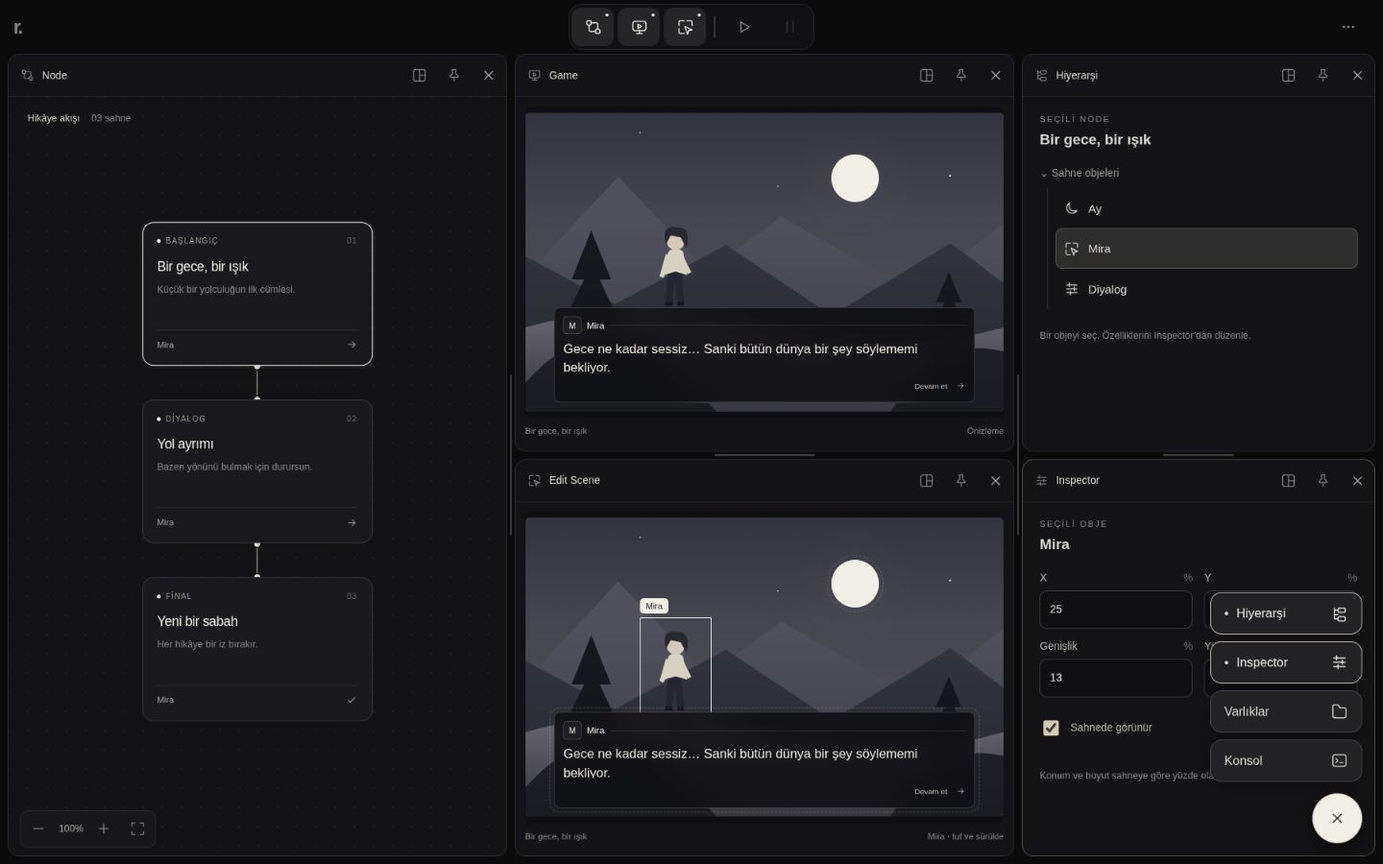
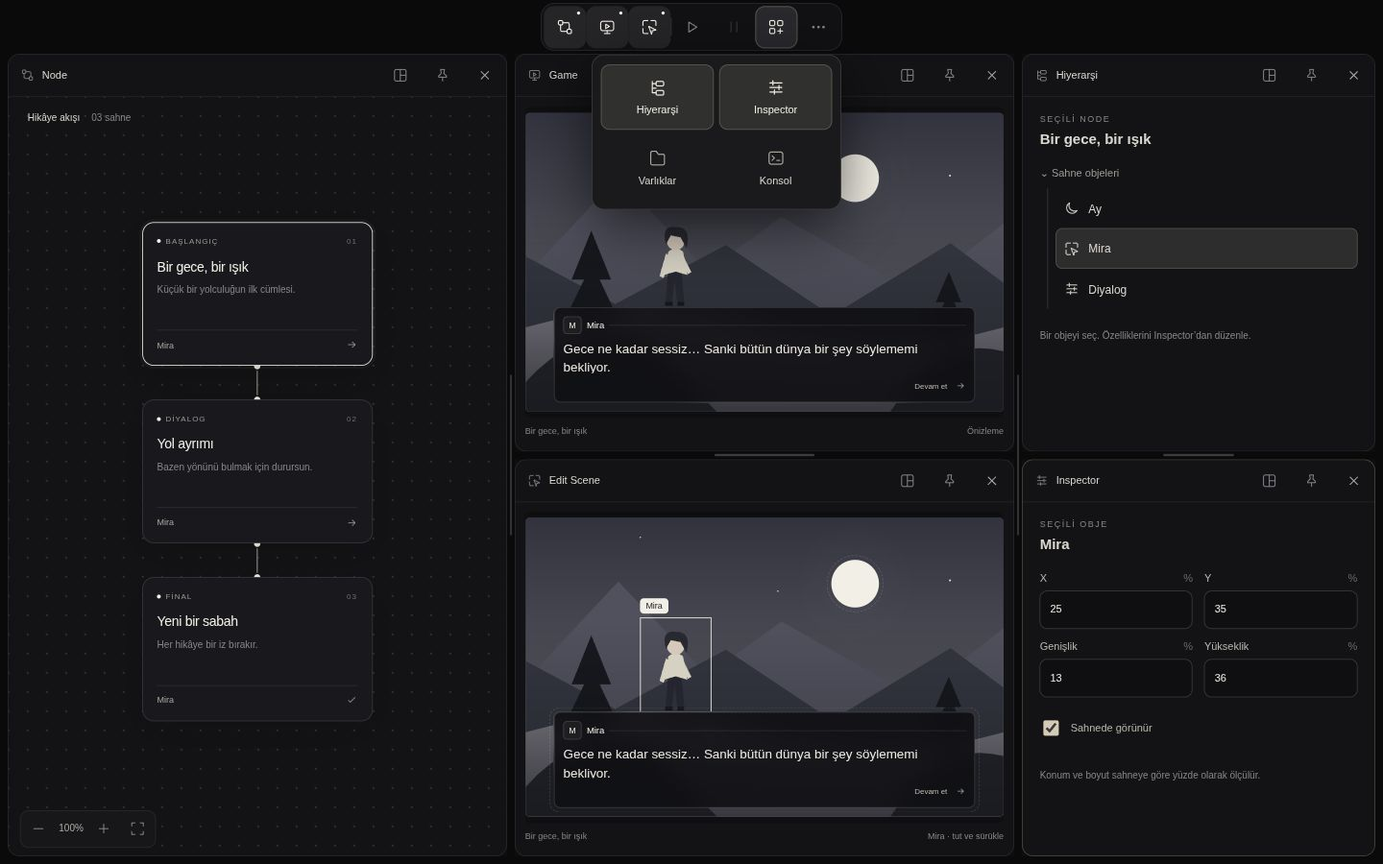
Unify desktop and mobile toolbar with animated workspace panels

diff --git a/prototypes/editor-workspace/tools.css b/prototypes/editor-workspace/tools.css
@@ -1,1 +1,5 @@
-.menu-section{border-top:1px solid var(--line);padding-top:14px;margin-top:9px}.options-menu .menu-row{font-size:12px}.tools-launcher{position:fixed;right:22px;bottom:max(22px,env(safe-area-inset-bottom));z-index:50;display:flex;flex-direction:column;align-items:flex-end;gap:12px}.tools-toggle{width:52px;height:52px;border:1px solid #c9c5b9;border-radius:50%;background:var(--bone);color:#28282b;display:grid;place-items:center;box-shadow:0 7px 24px #0008}.tools-toggle svg{transition:transform .18s}.tools-toggle[aria-expanded=true] svg{transform:rotate(45deg)}.tool-shortcuts{display:flex;flex-direction:column;gap:7px}.tool-shortcuts button{display:flex;justify-content:space-between;align-items:center;gap:22px;min-width:158px;min-height:44px;padding:10px 14px;border:1px solid #454449;background:#222225;border-radius:12px;box-shadow:0 5px 16px #0005}.tool-shortcuts button:hover{background:#323236}.tool-shortcuts button[aria-pressed=true]{border-color:#c2bcab;color:var(--bone)}.tool-shortcuts button[aria-pressed=true] span:before{content:'•';margin-right:8px}.tool-shortcuts svg{width:18px;height:18px}.tool-content{height:100%;overflow:auto;padding:18px;font-size:12px;scrollbar-width:thin;scrollbar-color:#454449 transparent}.tool-caption{display:block;font-size:9px;letter-spacing:1.5px;color:var(--muted);margin-bottom:8px}.hierarchy-scene,.inspector-name{font-size:15px;font-weight:550;display:block;margin-bottom:20px}.tree-root{color:#9c9b94;padding-bottom:9px;font-size:11px}.object-tree{margin-left:8px;border-left:1px solid #3a393b;padding-left:8px}.object-tree button{display:flex;align-items:center;gap:9px;width:100%;border:1px solid transparent;background:transparent;min-height:42px;border-radius:7px;padding:8px;text-align:left}.object-tree button[aria-pressed=true]{background:#2e2d2d;border-color:#58554d}.object-tree svg{width:16px;height:16px}.tree-status{margin-left:auto;color:var(--muted);font-size:10px}.tool-hint{color:var(--muted);font-size:10px;line-height:1.7;margin-top:20px}.property-grid{display:grid;grid-template-columns:1fr 1fr;gap:12px}.tool-content label,.dialog-body label{display:block;font-size:11px;color:#b9b6ad}.property-grid label span{float:right;color:#66666d}input,textarea,select{font:inherit;color:var(--bone)}.tool-content input:not([type=checkbox]),.tool-content textarea,.dialog-body input:not([type=checkbox]),.dialog-body select{display:block;width:100%;min-height:40px;border:1px solid #3b3b40;border-radius:8px;background:#0f0f12;padding:9px 10px;margin-top:7px}.tool-content textarea{resize:vertical;line-height:1.6}.tool-content input:focus,.dialog-body input:focus,.dialog-body select:focus,textarea:focus{outline:1px solid #b9b3a3}.check-row{display:flex!important;align-items:center;gap:9px;min-height:44px;margin:10px 0}.check-row input{width:16px;height:16px;accent-color:#d4cbb6}.dialogue-property{margin-top:14px}.asset-search{margin-bottom:18px}.asset-grid{display:grid;grid-template-columns:repeat(auto-fit,minmax(100px,1fr));gap:10px}.asset-grid button{border:1px solid #343439;background:#19191c;border-radius:10px;padding:0 0 12px;overflow:hidden;text-align:left}.asset-grid strong,.asset-grid span{display:block;margin:8px 10px 0;font-size:12px}.asset-grid span{font-size:10px;color:var(--muted)}.asset-preview{height:80px;display:grid;place-items:center;background:linear-gradient(145deg,#34343e,#23252c)}.asset-preview svg{width:30px;height:30px;color:#d4c9aa}.console-toolbar{display:flex;align-items:center;justify-content:space-between;color:var(--muted);font-size:10px}.text-button{border:0;background:transparent;padding:10px;color:var(--muted);min-height:44px}.text-button:hover{color:var(--bone)}.console-lines{list-style:none;padding:0;margin:8px 0;font-family:ui-monospace,monospace;font-size:10px;line-height:1.8}.console-lines li{display:flex;gap:10px;border-bottom:1px solid #242427;padding:9px 0;overflow-wrap:anywhere}.console-lines time{color:#68686d;flex-shrink:0}.console-lines span{color:#bcb8ad}.is-pinned .panel-header{cursor:default}.workspace{overflow-y:auto;scrollbar-width:thin;scrollbar-color:#39393d #0e0e10}.dock-root{bottom:auto}.node-area.no-grid{background-image:none}.editable.hide-guides .scene-object{outline:none!important}.editable.hide-guides .object-label,.editable.hide-guides .scene-object.selected:after{display:none}dialog{width:460px;max-width:calc(100vw - 32px);padding:0;border:1px solid #47464a;border-radius:18px;background:#19191c;color:var(--text);box-shadow:0 30px 100px #000a}dialog::backdrop{background:#0009;backdrop-filter:blur(4px)}.dialog-header{display:flex;align-items:center;justify-content:space-between;padding:24px 22px 16px;border-bottom:1px solid #303034}.dialog-header h2{font-weight:550;font-size:21px;margin:0}.dialog-body{padding:24px;max-height:60dvh;overflow:auto}.dialog-body label+label{margin-top:22px}.dialog-footer{display:flex;justify-content:flex-end;gap:12px;padding:16px 24px;border-top:1px solid #303034}.primary-button{min-height:44px;padding:10px 22px;border:0;background:var(--bone);color:#242426;border-radius:9px;font-weight:550}.export-card{display:flex;flex-direction:column;gap:12px}.export-card svg{width:32px;height:32px;color:#bdb5a2}.export-card strong{font-size:16px}.export-card p{color:#a4a39c;line-height:1.8;margin:0}.export-card span{font-size:10px}@media(max-width:650px){.tools-launcher{right:17px;bottom:max(17px,env(safe-area-inset-bottom))}.tool-content{padding:16px}.tool-hint{margin-bottom:35px}.tool-shortcuts button{min-width:160px}}
+.menu-section{border-top:1px solid var(--line);padding-top:14px;margin-top:9px}.options-menu .menu-row{font-size:12px}/* One toolbar and one tools menu at every screen size. */
+.tools-launcher{display:contents}.tools-toggle[aria-expanded=true]{background:#29292d;color:var(--bone);box-shadow:inset 0 0 0 1px #54534d}.tool-shortcuts{position:absolute;top:53px;right:0;width:260px;display:grid;grid-template-columns:1fr 1fr;gap:6px;padding:9px;animation:menu-enter 140ms ease-out}.tool-shortcuts button{min-height:68px;min-width:0;display:flex;flex-direction:column;align-items:center;justify-content:center;gap:8px;padding:9px 6px;border:1px solid transparent;background:transparent;border-radius:9px;font-size:11px}.tool-shortcuts button svg{order:-1;width:19px;height:19px;color:#aca89d}.tool-shortcuts button:hover{background:#2b2b2f}.tool-shortcuts button[aria-pressed=true]{background:#30302f;border-color:#625e54;color:var(--bone)}.tool-shortcuts button[aria-pressed=true] svg{color:var(--bone)}
+.tool-content{height:100%;overflow:auto;padding:18px;font-size:12px;scrollbar-width:thin;scrollbar-color:#454449 transparent}.tool-caption{display:block;font-size:9px;letter-spacing:1.5px;color:var(--muted);margin-bottom:8px}.hierarchy-scene,.inspector-name{font-size:15px;font-weight:550;display:block;margin-bottom:20px}.tree-root{color:#9c9b94;padding-bottom:9px;font-size:11px}.object-tree{margin-left:8px;border-left:1px solid #3a393b;padding-left:8px}.object-tree button{display:flex;align-items:center;gap:9px;width:100%;border:1px solid transparent;background:transparent;min-height:42px;border-radius:7px;padding:8px;text-align:left}.object-tree button[aria-pressed=true]{background:#2e2d2d;border-color:#58554d}.object-tree svg{width:16px;height:16px}.tree-status{margin-left:auto;color:var(--muted);font-size:10px}.tool-hint{color:var(--muted);font-size:10px;line-height:1.7;margin-top:20px}.property-grid{display:grid;grid-template-columns:1fr 1fr;gap:12px}.tool-content label,.dialog-body label{display:block;font-size:11px;color:#b9b6ad}.property-grid label span{float:right;color:#66666d}input,textarea,select{font:inherit;color:var(--bone)}.tool-content input:not([type=checkbox]),.tool-content textarea,.dialog-body input:not([type=checkbox]),.dialog-body select{display:block;width:100%;min-height:40px;border:1px solid #3b3b40;border-radius:8px;background:#0f0f12;padding:9px 10px;margin-top:7px}.tool-content textarea{resize:vertical;line-height:1.6}.tool-content input:focus,.dialog-body input:focus,.dialog-body select:focus,textarea:focus{outline:1px solid #b9b3a3}.check-row{display:flex!important;align-items:center;gap:9px;min-height:44px;margin:10px 0}.check-row input{width:16px;height:16px;accent-color:#d4cbb6}.dialogue-property{margin-top:14px}.asset-search{margin-bottom:18px}.asset-grid{display:grid;grid-template-columns:repeat(auto-fit,minmax(100px,1fr));gap:10px}.asset-grid button{border:1px solid #343439;background:#19191c;border-radius:10px;padding:0 0 12px;overflow:hidden;text-align:left}.asset-grid strong,.asset-grid span{display:block;margin:8px 10px 0;font-size:12px}.asset-grid span{font-size:10px;color:var(--muted)}.asset-preview{height:80px;display:grid;place-items:center;background:linear-gradient(145deg,#34343e,#23252c)}.asset-preview svg{width:30px;height:30px;color:#d4c9aa}.console-toolbar{display:flex;align-items:center;justify-content:space-between;color:var(--muted);font-size:10px}.text-button{border:0;background:transparent;padding:10px;color:var(--muted);min-height:44px}.text-button:hover{color:var(--bone)}.console-lines{list-style:none;padding:0;margin:8px 0;font-family:ui-monospace,monospace;font-size:10px;line-height:1.8}.console-lines li{display:flex;gap:10px;border-bottom:1px solid #242427;padding:9px 0;overflow-wrap:anywhere}.console-lines time{color:#68686d;flex-shrink:0}.console-lines span{color:#bcb8ad}.is-pinned .panel-header{cursor:default}.workspace{overflow-y:auto;scrollbar-width:thin;scrollbar-color:#39393d #0e0e10}.dock-root{bottom:auto}.node-area.no-grid{background-image:none}.editable.hide-guides .scene-object{outline:none!important}.editable.hide-guides .object-label,.editable.hide-guides .scene-object.selected:after{display:none}dialog{width:460px;max-width:calc(100vw - 32px);padding:0;border:1px solid #47464a;border-radius:18px;background:#19191c;color:var(--text);box-shadow:0 30px 100px #000a}dialog::backdrop{background:#0009;backdrop-filter:blur(4px)}.dialog-header{display:flex;align-items:center;justify-content:space-between;padding:24px 22px 16px;border-bottom:1px solid #303034}.dialog-header h2{font-weight:550;font-size:21px;margin:0}.dialog-body{padding:24px;max-height:60dvh;overflow:auto}.dialog-body label+label{margin-top:22px}.dialog-footer{display:flex;justify-content:flex-end;gap:12px;padding:16px 24px;border-top:1px solid #303034}.primary-button{min-height:44px;padding:10px 22px;border:0;background:var(--bone);color:#242426;border-radius:9px;font-weight:550}.export-card{display:flex;flex-direction:column;gap:12px}.export-card svg{width:32px;height:32px;color:#bdb5a2}.export-card strong{font-size:16px}.export-card p{color:#a4a39c;line-height:1.8;margin:0}.export-card span{font-size:10px}@media(max-width:650px){.tool-content{padding:16px}.tool-hint{margin-bottom:35px}}
+
+.app-header{display:flex;justify-content:center;padding:0 3px}.view-switcher{position:relative;display:flex;gap:0;padding:2px;border:1px solid #29292d;border-radius:14px;background:#111113}.view-button{width:44px;height:44px;flex:0 0 44px;position:relative}.view-switcher #play-toggle:before,.view-switcher #tools-toggle:before{content:'';position:absolute;left:0;top:13px;bottom:13px;width:1px;background:#3b3b3e;pointer-events:none}.view-button svg{width:18px;height:18px}.options-menu{top:53px;right:0}.panel-header .icon-button{width:44px}.panel-title>svg{display:block}.panel-content{overflow:hidden}@keyframes menu-enter{from{opacity:0;transform:translateY(-5px)}to{opacity:1;transform:translateY(0)}}@media(prefers-reduced-motion:reduce){*{animation:none!important;transition:none!important}}

diff --git a/prototypes/editor-workspace/app.js b/prototypes/editor-workspace/app.js
@@ -3,6 +3,7 @@ import { initialLayout, syncLayout, dockView, resizeSplit } from './layout-state
 import { TOOL_VIEWS } from './workspace-state.mjs';
 import { defaultSettings, normalizeSettings, RESOLUTIONS, editObject } from './settings-state.mjs';
 import { toolContent, bindTools } from './tools.js';
+import { workspaceMotion } from './workspace-motion.js';
 import { initialPlayback, startPlayback, togglePause, advancePlayback, playbackFrame } from './playback-state.mjs';
 
 const names = { node: 'Node', game: 'Game', edit: 'Edit Scene', hierarchy: 'Hiyerarşi', inspector: 'Inspector', assets: 'Varlıklar', console: 'Konsol' };
@@ -42,6 +43,7 @@ for (const view of Object.keys(names)) {
   panels.set(view, panel);
 }
 
+const motion = workspaceMotion(dockRoot,panels);
 const tools = bindTools(panels, {
   get:()=>({scene:scenes[sceneIndex], selected:selectedObject, names:objectNames}),
   select:object=>{selectedObject=object;updateScene();tools.log(`${objectNames[object]} seçildi.`);},
@@ -59,10 +61,13 @@ function closeMenus() {
   options.hidden = true; placement.hidden = true; document.querySelector('#tools-menu').hidden=true; document.querySelector('#tools-toggle').setAttribute('aria-expanded','false'); document.querySelector('#tools-toggle').setAttribute('aria-label','Araçları aç'); document.querySelector('#options').setAttribute('aria-expanded', 'false');
 }
 function apply(result) {
+  motion.cancel();
+  const removed=state.visible.filter(view=>!result.state.visible.includes(view));
   layout = syncLayout(layout, state, result.state, workspace.clientWidth < 650 ? 'y' : 'x');
   state = result.state; closeMenus();
   if (result.message) notify(result.message);
-  render();
+  updateControls();
+  motion.exit(removed,state.visible,()=>render(!removed.length),workspaceHeight());
 }
 function updateControls() {
   document.querySelectorAll('[data-view]').forEach(button => {
@@ -105,7 +110,8 @@ function treeElement(tree) {
   divider.setAttribute('aria-valuemin', '20'); divider.setAttribute('aria-valuemax', '80'); divider.setAttribute('aria-valuenow', String(Math.round(tree.ratio * 100)));
   element.append(a, divider, b); return element;
 }
-function render() {
+function render(animated=false) {
+  const before=animated?motion.capture():null;
   const active = document.activeElement;
   for (const panel of panels.values()) panel.remove();
   dockRoot.replaceChildren();
@@ -113,6 +119,7 @@ function render() {
   updateControls(); updateScene(); fitViews();
   document.querySelector('#empty-state').hidden = state.visible.length > 0;
   if (active && active !== document.body && active.isConnected) active.focus({ preventScroll: true });
+  if(before) motion.enter(before);
 }
 function paintScene(view, scene) {
     const panel = panels.get(view);
@@ -146,9 +153,11 @@ function minimumHeight(tree) {
   const a=minimumHeight(tree.a), b=minimumHeight(tree.b);
   return tree.axis==='x'?Math.max(a,b):8+Math.max(a/tree.ratio,b/(1-tree.ratio));
 }
+function workspaceHeight() {
+  return workspace.clientWidth<650?Math.max(workspace.clientHeight,minimumHeight(layout.tree)):workspace.clientHeight;
+}
 function fitViews() {
-  const height=workspace.clientWidth<650?Math.max(workspace.clientHeight,minimumHeight(layout.tree)):workspace.clientHeight;
-  dockRoot.style.height=`${height}px`;
+  dockRoot.style.height=`${workspaceHeight()}px`;
   const viewport = panels.get('node').querySelector('.graph-viewport');
   if (viewport.isConnected && viewport.clientWidth) {
     const compact = viewport.clientWidth < 600; viewport.classList.toggle('is-compact', compact);
@@ -203,6 +212,8 @@ function startGesture(event, data) {
 }
 workspace.addEventListener('pointerdown', event => {
   if (event.button !== 0 || gesture) return;
+  motion.cancel();
+  if(!event.target.isConnected) return;
   const panel = event.target.closest('[data-panel]'); if (panel) focus(panel.dataset.panel);
   const object = event.target.closest('.editable [data-object]');
   const divider = event.target.closest('[data-divider]'), header = event.target.closest('[data-drag]');
@@ -252,7 +263,7 @@ workspace.addEventListener('pointercancel', event => { if (gesture?.pointerId===
 workspace.addEventListener('lostpointercapture', () => { if (gesture) endGesture(true); });
 workspace.addEventListener('click', event => {
   const menu = event.target.closest('[data-placement]'), node = event.target.closest('[data-scene]'), zoomButton = event.target.closest('[data-zoom]'), close = event.target.closest('[data-close]'), pin = event.target.closest('[data-pin]');
-  if (close) { apply(closeView(state,close.dataset.close)); document.querySelector(`[data-view="${close.dataset.close}"],[data-tool="${close.dataset.close}"]`)?.focus({preventScroll:true}); }
+  if (close) { apply(closeView(state,close.dataset.close)); (document.querySelector(`[data-view="${close.dataset.close}"]`)??document.querySelector("#tools-toggle")).focus({preventScroll:true}); }
   else if (pin) apply(togglePin(state,pin.dataset.pin));
   else if (menu) showPlacement(menu.dataset.placement,menu);
   else if (node) { sceneIndex = Number(node.dataset.scene); updateScene(); }
@@ -306,13 +317,13 @@ placement.addEventListener('click',event=>{
 document.addEventListener('pointerdown',event=>{ if (!event.target.closest('.popover,#options,[data-placement],.tools-launcher')) closeMenus(); });
 document.addEventListener('keydown',event=>{ if (event.key==='Escape') { endGesture(true); closeMenus(); } });
 document.querySelector('#reset').addEventListener('click',()=>{
-  endGesture(true); layout=syncLayout({tree:null},{visible:[]},state,workspace.clientWidth<650?'y':'x'); zoom=1; workspace.scrollTop=0; closeMenus(); render(); tools.log('Pencere yerleşimi sıfırlandı.');
+  endGesture(true); motion.cancel(); layout=syncLayout({tree:null},{visible:[]},state,workspace.clientWidth<650?'y':'x'); zoom=1; workspace.scrollTop=0; closeMenus(); render(); tools.log('Pencere yerleşimi sıfırlandı.');
 });
 document.querySelector('#tools-toggle').addEventListener('click',()=>{
   const open=document.querySelector('#tools-menu').hidden;closeMenus();document.querySelector('#tools-menu').hidden=!open;
   document.querySelector('#tools-toggle').setAttribute('aria-expanded',String(open));document.querySelector('#tools-toggle').setAttribute('aria-label',open?'Araçları kapat':'Araçları aç');
 });
-document.querySelectorAll('[data-tool]').forEach(button=>button.addEventListener('click',()=>{endGesture(true);apply(toggleView(state,button.dataset.tool));}));
+document.querySelectorAll('[data-tool]').forEach(button=>button.addEventListener('click',()=>{endGesture(true);apply(toggleView(state,button.dataset.tool));document.querySelector('#tools-toggle').focus({preventScroll:true});}));
 const settingsDialog=document.querySelector('#settings-dialog'), settingsForm=document.querySelector('#settings-form');
 let settingsCategory='project';
 document.querySelectorAll('[data-settings]').forEach(button=>button.addEventListener('click',()=>{

diff --git a/prototypes/editor-workspace/index.html b/prototypes/editor-workspace/index.html
@@ -32,21 +32,29 @@
     <symbol id="i-assets" viewBox="0 0 24 24"><path d="M3 7V5a2 2 0 0 1 2-2h5l3 4h6a2 2 0 0 1 2 2v10a2 2 0 0 1-2 2H5a2 2 0 0 1-2-2Z"/></symbol>
     <symbol id="i-console" viewBox="0 0 24 24"><rect x="3" y="4" width="18" height="16" rx="3"/><path d="m7 9 3 3-3 3m6 0h4"/></symbol>
     <symbol id="i-export" viewBox="0 0 24 24"><path d="M12 3v12m-4-4 4 4 4-4M4 16v5h16v-5"/></symbol>
+    <symbol id="i-tools" viewBox="0 0 24 24"><rect x="3" y="3" width="7" height="7" rx="2"/><rect x="14" y="3" width="7" height="7" rx="2"/><rect x="3" y="14" width="7" height="7" rx="2"/><path d="M17.5 14v7M14 17.5h7"/></symbol>
     <symbol id="i-move" viewBox="0 0 24 24"><path d="M12 3v18M3 12h18m-12-6 3-3 3 3m-6 12 3 3 3-3m-9-9-3 3 3 3m12-6 3 3-3 3"/></symbol>
   </svg>
 
 
   <header class="app-header">
-    <span class="brand-mark" aria-label="Rowl">r.</span>
     <nav class="view-switcher" aria-label="Çalışma alanları">
       <button class="view-button" data-view="node" aria-label="Node ekranını aç" title="Node"><svg><use href="#i-node"/></svg><i></i></button>
       <button class="view-button" data-view="game" aria-label="Game ekranını aç" title="Game"><svg><use href="#i-game"/></svg><i></i></button>
       <button class="view-button" data-view="edit" aria-label="Edit Scene ekranını aç" title="Edit Scene"><svg><use href="#i-edit"/></svg><i></i></button>
-      <span class="toolbar-divider" aria-hidden="true"></span>
       <button class="view-button playback-button" id="play-toggle" aria-label="Oyunu başlat" title="Oyunu başlat"><svg aria-hidden="true"><use href="#i-play"/></svg></button>
       <button class="view-button playback-button" id="pause-toggle" aria-label="Oyunu duraklat" title="Oyunu duraklat" disabled><svg aria-hidden="true"><use href="#i-pause"/></svg></button>
-    </nav>
-    <button class="icon-button" id="options" aria-label="Çalışma alanı seçenekleri" aria-expanded="false" aria-controls="options-menu" title="Seçenekler"><svg><use href="#i-more"/></svg></button>
+  <div class="tools-launcher">
+    <button id="tools-toggle" class="view-button tools-toggle" title="Araçlar" aria-label="Araçları aç" aria-expanded="false" aria-controls="tools-menu"><svg><use href="#i-tools"/></svg></button>
+    <div id="tools-menu" class="tool-shortcuts popover" hidden aria-label="Editör araçları">
+      <button data-tool="hierarchy" aria-pressed="false"><span>Hiyerarşi</span><svg><use href="#i-hierarchy"/></svg></button>
+      <button data-tool="inspector" aria-pressed="false"><span>Inspector</span><svg><use href="#i-inspector"/></svg></button>
+      <button data-tool="assets" aria-pressed="false"><span>Varlıklar</span><svg><use href="#i-assets"/></svg></button>
+      <button data-tool="console" aria-pressed="false"><span>Konsol</span><svg><use href="#i-console"/></svg></button>
+    </div>
+
+  </div>
+    <button class="view-button" id="options" aria-label="Çalışma alanı seçenekleri" aria-expanded="false" aria-controls="options-menu" title="Seçenekler"><svg><use href="#i-more"/></svg></button>
     <div class="options-menu popover" id="options-menu" hidden>
       <span class="menu-label">PROJE</span>
       <button class="menu-row" data-settings="project"><svg><use href="#i-assets"/></svg>Proje ayarları</button>
@@ -56,6 +64,7 @@
       <button class="menu-row" data-settings="editor"><svg><use href="#i-inspector"/></svg>Editör tercihleri</button>
       <button class="menu-row" id="reset"><svg><use href="#i-reset"/></svg>Yerleşimi sıfırla</button>
     </div>
+    </nav>
   </header>
   <main class="workspace" id="workspace" aria-label="Editör çalışma alanı"><div class="dock-root" id="dock-root"></div><div class="empty-state" id="empty-state" hidden><svg aria-hidden="true"><use href="#i-layout"/></svg><span>Üstteki simgelerden bir ekran aç.</span></div><div class="drop-preview" id="drop-preview" hidden><span></span></div><div class="drag-label" id="drag-label" hidden></div></main>
   <div class="placement-menu popover" id="placement-menu" hidden>
@@ -65,15 +74,6 @@
     <div class="placement-directions" role="group" aria-label="Hedefe göre konum"><button data-edge="left">← Sol</button><button data-edge="right">Sağ →</button><button data-edge="top">↑ Üst</button><button data-edge="bottom">Alt ↓</button></div>
     <button class="menu-row" id="menu-pin"><svg><use href="#i-pin"/></svg><span>Paneli sabitle</span></button>
     <button class="menu-row" id="menu-close"><svg><use href="#i-close"/></svg>Pencereyi kapat</button>
-  </div>
-  <div class="tools-launcher">
-    <div id="tools-menu" class="tool-shortcuts" hidden aria-label="Editör araçları">
-      <button data-tool="hierarchy" aria-pressed="false"><span>Hiyerarşi</span><svg><use href="#i-hierarchy"/></svg></button>
-      <button data-tool="inspector" aria-pressed="false"><span>Inspector</span><svg><use href="#i-inspector"/></svg></button>
-      <button data-tool="assets" aria-pressed="false"><span>Varlıklar</span><svg><use href="#i-assets"/></svg></button>
-      <button data-tool="console" aria-pressed="false"><span>Konsol</span><svg><use href="#i-console"/></svg></button>
-    </div>
-    <button id="tools-toggle" class="tools-toggle" aria-label="Araçları aç" aria-expanded="false" aria-controls="tools-menu"><svg><use href="#i-plus"/></svg></button>
   </div>
   <dialog id="settings-dialog" aria-labelledby="settings-title">
     <form id="settings-form">

diff --git a/prototypes/editor-workspace/workspace-motion.js b/prototypes/editor-workspace/workspace-motion.js
@@ -1,0 +1,58 @@
+// Animate flex allocations, so the windows keep disjoint layout areas throughout.
+export function workspaceMotion(root, panels) {
+  let animations = [], timer = null, complete = null;
+  const reduced = () => matchMedia('(prefers-reduced-motion: reduce)').matches;
+  function cancel() {
+    clearTimeout(timer); timer = null;
+    for (const animation of animations) animation.cancel();
+    animations = [];
+    const finish = complete; complete = null;
+    if (finish) finish();
+  }
+  function animate(element, frames, duration=200, fill='none') {
+    const animation=element.animate(frames,{duration,easing:'cubic-bezier(.22,1,.36,1)',fill});
+    animations.push(animation);
+    animation.finished.then(()=>{if(fill==='none') animations=animations.filter(item=>item!==animation);},()=>{});
+  }
+  function capture() {
+    return {rects:new Map([...panels].filter(([,panel])=>panel.isConnected).map(([view,panel])=>[view,panel.getBoundingClientRect()])),height:root.clientHeight};
+  }
+  function extent(element, before, axis) {
+    const boxes=[...element.querySelectorAll('[data-panel]')].map(panel=>before.get(panel.dataset.panel)).filter(Boolean);
+    if (!boxes.length) return 0;
+    return axis==='x'?Math.max(...boxes.map(r=>r.right))-Math.min(...boxes.map(r=>r.left)):Math.max(...boxes.map(r=>r.bottom))-Math.min(...boxes.map(r=>r.top));
+  }
+  function enter(snapshot) {
+    if(reduced()) return;
+    const before=snapshot.rects;
+    if(Math.abs(snapshot.height-root.clientHeight)>1) animate(root,[{height:`${snapshot.height}px`},{height:`${root.clientHeight}px`}]);
+    for(const split of root.querySelectorAll('.split')) {
+      const [a,,b]=split.children, axis=split.dataset.axis;
+      const first=extent(a,before,axis), second=extent(b,before,axis), total=first+second;
+      if(!total) continue;
+      const target=parseFloat(a.style.flex), start=Math.max(.001,Math.min(.999,first/total));
+      if(Math.abs(start-target)<.001) continue;
+      animate(a,[{flexGrow:start},{flexGrow:target}]);
+      animate(b,[{flexGrow:1-start},{flexGrow:1-target}]);
+    }
+    for(const [view,panel] of panels) if(panel.isConnected&&!before.has(view)) {
+      animate(panel.querySelector('.panel-content'),[{opacity:0,transform:'translateY(6px)'},{opacity:1,transform:'translateY(0)'}]);
+    }
+  }
+  function exit(removed, visible, finish, height) {
+    if(reduced()||!removed.length){finish();return;}
+    if(Math.abs(root.clientHeight-height)>1) animate(root,[{height:`${root.clientHeight}px`},{height:`${height}px`}],180,'forwards');
+    for(const view of removed){const panel=panels.get(view);if(panel?.isConnected)animate(panel.querySelector('.panel-content'),[{opacity:1},{opacity:0}],100,'forwards');}
+    for(const split of root.querySelectorAll('.split')) {
+      const [a,,b]=split.children;
+      const remains=element=>[...element.querySelectorAll('[data-panel]')].some(panel=>visible.includes(panel.dataset.panel));
+      const hasA=remains(a), hasB=remains(b);
+      if(hasA===hasB)continue;
+      animate(a,[{flexGrow:parseFloat(a.style.flex)},{flexGrow:hasA?1:0}],180,'forwards');
+      animate(b,[{flexGrow:parseFloat(b.style.flex)},{flexGrow:hasB?1:0}],180,'forwards');
+    }
+    complete=finish;
+    timer=setTimeout(()=>{timer=null;complete=null;for(const animation of animations)animation.cancel();animations=[];finish();},180);
+  }
+  return {cancel,capture,enter,exit};
+}

diff --git a/prototypes/editor-workspace/README.md b/prototypes/editor-workspace/README.md
@@ -19,8 +19,7 @@ Tarayıcı: `http://127.0.0.1:4173`.
 - **Varlıklar:** örnek varlıkları isimle filtrele, seçerek Edit Scene'e geç.
 - **Konsol:** gerçek prototip etkileşimlerinin oturum kayıtları; Temizle ile boşaltılır.
 
-Üstte üç ana ekran simgesi, başlat/kapat ve duraklat/devam et var.
-Sağ alttaki yuvarlak **+**, üstüne doğru isimli araç düğmeleri açar. Ana ekran ve araç düğmeleri ikinci tıklamada aynı pencereyi kapatır.
+PC ve mobilde aynı üst kapsül var: **Node · Game · Edit Scene | Başlat · Duraklat | Araçlar · …**. Yedi düğmenin dokunma alanı 44×44 piksel; kapsül 314 piksel genişliğiyle 320 piksel ekrana sığar. Sağ alttaki düğme kaldırıldı. **Araçlar**, kapsülün altında her iki cihazda da aynı 2×2 isimli menüyü açar. Açık araçlar menüde işaretlenir; ikinci tıklama aynı pencereyi kapatır. Lua kod editörü ileride bu menüye ayrı araç olarak eklenebilir; henüz uygulanmadı.
 
 ## Pencere yerleşimi
 
@@ -32,6 +31,10 @@ Sağ alttaki yuvarlak **+**, üstüne doğru isimli araç düğmeleri açar. Ana
 - **Sabitleme**, başlıktan sürüklemeyi ve menüden taşımayı kilitler. Bölme boyutları ayarlanabilir; sabit pencere elle kapatılabilir.
 - Görünür **×**, son pencere dahil herhangi bir pencereyi kapatır; kapanan pencerenin sabitlemesi temizlenir.
 - Escape/pointer iptali sürüklemeyi geri alır; alan dışına bırakma eski konumu korur.
+
+## Geçişler
+
+Pencere açılırken bölme oranları 200 ms içinde yumuşakça değişir; yeni içerik hafifçe belirir. Kapanırken içerik solar, kapanan bölme 180 ms içinde daralır. Mobilde çalışma alanının yüksekliği de geçişe katılır. Animasyonlar pencereyi diğerinin üzerine taşımak yerine flex bölmelerini değiştirir. Hızlı aç/kapat önceki geçişi sonlandırıp güncel duruma geçer. `prefers-reduced-motion` açıkken geçişler anında gerçekleşir.
 
 ## Proje menüsü
 
@@ -59,6 +62,8 @@ Ayarlar bu tarayıcının localStorage alanında saklanır. Örnek sahne düzenl
 ```sh
 node --test prototypes/editor-workspace/*.test.mjs
 ```
+
+Yeni kontrol kapsülü 1440×900 ve 320×740 görünümlerinde aynı sıra ve 44×44 düğmelerle doğrulandı. 2×2 araç menüsü 260 piksel genişlikte iki görünümde de aynı yerleşimi kullanır. Sekiz hızlı Game aç/kapat işleminden sonra pencere ve düğme durumları tutarlı kaldı; Inspector kapanıp kaldırıldı ve yeniden açıldı. Başlat/duraklat akışı korundu.
 
 Tarayıcıda 1440×900'de yedi pencere birlikte açıldı; DOM alanları çakışmadı. Hiyerarşi seçiminden Inspector konum/görünürlük düzenleme, Edit Scene'e yansıma ve donmuş Game kopyasının değişmemesi doğrulandı. Varlık filtreleme/seçim, Konsol kayıtları, sabit pencerenin yön düğmelerinin kapanması kontrol edildi. Çözünürlük ve başlangıç sahnesi uygulandı; yenileme sonrası korundu. Izgara/çerçeve tercihleri uygulandı. İndirilen JSON açılarak üç sahne, yedi pencere ve ayarlar doğrulandı.
 
